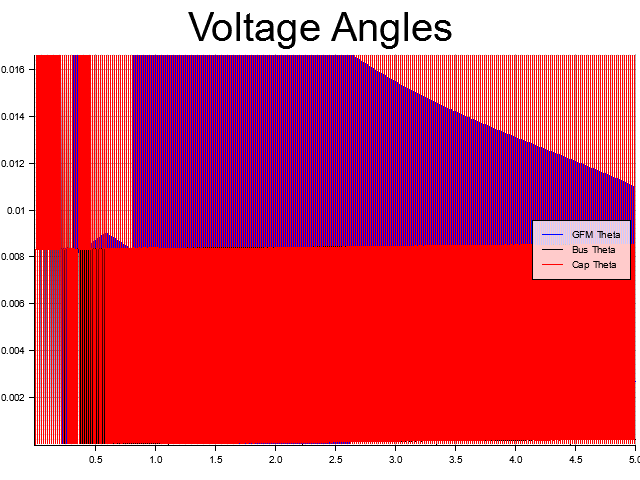
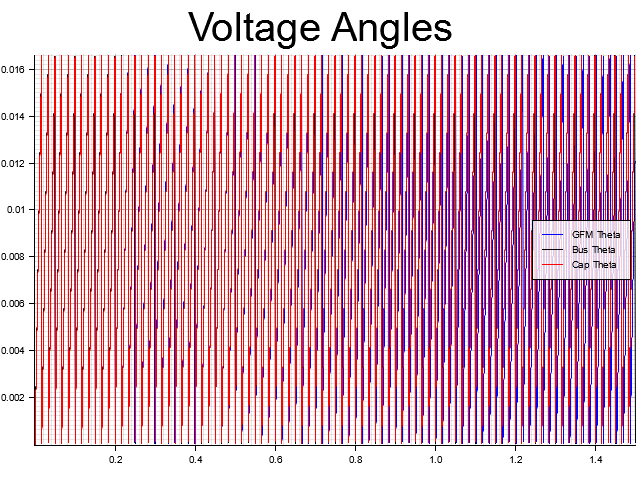
Update droop rl sim for gfm object & presync

diff --git a/src/bin/droop_rl_sim.rs b/src/bin/droop_rl_sim.rs
@@ -8,46 +8,58 @@ use unifi_gfm::refs::*;
 use unifi_gfm::sims::*;
 use unifi_gfm::constants::*;
 
-const VOLTAGE_FILE_NAME: &'static str = "images/droop_sim_voltage.png";
-const THETA_FILE_NAME: &'static str = "images/droop_sim_thetas.png";
-const POWER_OUT_FILE_NAME: &'static str = "images/droop_sim_powers.png";
-const CURRENT_OUT_FILE_NAME: &'static str = "images/droop_sim_currents.png";
-const DELTA_OUT_FILE_NAME: &'static str = "images/droop_sim_deltas.png";
-
+const VOLTAGE_FILE_NAME: &'static str = "images/droop_rl_sim_voltage.png";
+const THETA_FILE_NAME: &'static str = "images/droop_rl_sim_thetas.png";
+const POWER_OUT_FILE_NAME: &'static str = "images/droop_rl_sim_powers.png";
+const CURRENT_OUT_FILE_NAME: &'static str = "images/droop_rl_sim_currents.png";
+const DELTA_OUT_FILE_NAME: &'static str = "images/droop_rl_sim_deltas.png";
 fn main() -> Result<(), Box<dyn std::error::Error>> {
-    env::set_var("RUST_BACKTRACE", "1");  // Enable backtrace for identifying overflow errors 
-    /* 
+    /*
     DEFINE SYSTEM PARAMETERS & CONSTRUCT OBJECTS
     */
     let v_nom: f32 = 80.;
     let f_nom: f32 = 60.;
     let w_nom: f32 = f_nom * 2.*PI;
     let s_rated: f32 = 1000.;
-    let z_base = 3. * v_nom * v_nom / s_rated;
-    let dt: f32 = 1.0e-4_f32;
-    let mp: f32 = 0.0026; // / w_nom;  // Does this coefficient need to be per-unitized?
-    let mq: f32 = 0.005; // / v_nom;   // Does this coefficient need to be per-unitized?
-    let w_c: f32 = 30.*2.*PI;  // Does this filter frequency need to be per-unitized?
-    let mut inv = build_droop_controller(v_nom, w_nom, mp, mq, w_c);
-    inv.x[(1)] = dt * 0.53;  // Initialize inverter angle leading the grid angle by ~half a cycle to start closer to the digital equalibria
-    inv.x[(0)] = 0.999965;  // Initialize inverter voltage slightly lower than nominal to start closer to the digital equalibria
+    let fs: f32 = 10e3_f32; // Hz
+    let dt: f32 = 1. / fs;  // s
+    let mp: f32 = 0.0026; // / w_nom;  // TODO: Does this coefficient need to be per-unitized? Current values seems to make the response sluggish
+    let mq: f32 = 0.005; // / v_nom;   // TODO: Does this coefficient need to be per-unitized?
+    let w_c: f32 = 30.*2.*PI;  // TODO: Does this filter frequency need to be per-unitized?
+    let gamma: f32 = 35.;  // TODO: Determine what value should be used for gamma. Too high causes instability, but too low causes sluggish presync
 
-    let rf = 0.8;
-    let lf = 1.5e-3;
-    let mut line: RlBranch<f32> = build_rl_branch(f_nom, rf / z_base, lf / z_base);
+    let rf = 0.8;  // filter-side resistance
+    let lf = 1.5e-3;  // filter-side inductance
+
+    let z_base = 3. * v_nom * v_nom / s_rated;
+
+    let mut inv = build_droop_controller(v_nom, w_nom, mp, mq, w_c);
+    inv.x[(1)] = 0.005;  // Initialize inverter angle to be off from the grid to test presync
+    inv.x[(0)] = 1.1;  // Initialize inverter voltage to be off from v_nom to test presync
+    let mut gfm = build_gfm(&mut inv, gamma);  // Place the droop controller within a GFM interface object
+
+    let mut line: RlBranch<f32> = build_rl_branch(w_nom, rf / z_base, lf / z_base);
     let mut bus: AcVoltSrc<f32> = build_ac_volt_src(v_nom, w_nom);
 
     /*
     RUNNING DYNAMICAL SIMULATION
     */
+    // Simulation settings
     let t_end = 0.5;  // Simulate time in seconds
+    let t_step = t_end / 2.; // Active power reference step time
+    let t_switch = t_end / 5.;  // Grid-side switch time
     let n_steps: u32 = (t_end / dt).ceil() as u32;
     let cont_n_steps = 20;  // Number of steps taken for 'continuous' dynamics for each digital step
     let cont_dt = dt / (cont_n_steps as f32);
     let steps: Vec<u32> = (0..n_steps+1).collect();
+    // Initialize simulation variables
     let mut t: f32;
-    let mut p: f32 = 0.; let mut q: f32 = 0.;
-    let mut delta: f32; let mut i_alpha_sample: f32; let mut i_beta_sample: f32;
+    let mut p: f32 = 0.; let mut q: f32 = 0.; let mut delta: f32; 
+    let mut i_alpha_sample: f32; let mut i_beta_sample: f32;
+    let mut v_grid_sample: f32; let mut theta_grid_sample: f32;
+    let mut v_grid: f32; let mut theta_grid: f32; let mut v_inv: [f32; 2];
+    let mut v_to_alpha_beta: AlphaBeta<f32>;
+    // Simulation data vectors
     let mut v_values: Vec<(f32, f32)> = vec![(0., 0.); (n_steps+1) as usize];
     let mut theta_values: Vec<(f32, f32)> = vec![(0., 0.); (n_steps+1) as usize];
     let mut vg_values: Vec<(f32, f32)> = vec![(0., 0.); (n_steps+1) as usize];
@@ -57,23 +69,24 @@ fn main() -> Result<(), Box<dyn std::error::Error>> {
     let mut q_values: Vec<(f32, f32)> = vec![(0., 0.); ((n_steps+1)*cont_n_steps) as usize];
     let mut ia_values: Vec<(f32, f32)> = vec![(0., 0.); (n_steps+1) as usize];
     let mut ib_values: Vec<(f32, f32)> = vec![(0., 0.); (n_steps+1) as usize];
-    for step in steps {  // TODO: Debug this to see where the overflow occurs...
+    for step in steps {
         t = step as f32 * dt;
-        if t > (t_end / 2.) {
-            inv.set_p_ref(1.0);
+        if t > t_step {
+            gfm.set_p_ref(1.0);
         }
 
         // Collect voltage values
-        v_values[step as usize] = (t, inv.x[(0)]);
-        theta_values[step as usize] = (t, inv.x[(1)]);
+        v_inv = gfm.get_pu_voltage();
+        v_values[step as usize] = (t, v_inv[0]);
+        theta_values[step as usize] = (t, v_inv[1]);
         vg_values[step as usize] = (t, bus.x[(0)]);
         thetag_values[step as usize] = (t, bus.x[(1)]);
         ia_values[step as usize] = (t, line.x[(0)]);
         ib_values[step as usize] = (t, line.x[(1)]);
-        delta = inv.x[(1)] - bus.x[(1)];
+        delta = v_inv[1] - bus.x[(1)];
         if delta > (1. / f_nom) {
             delta = -(1. / f_nom) + delta;
-        } else if delta < -(1. / f_nom - 5.0e-4) {
+        } else if delta < -(1. / f_nom - 1.0e-4) {
             delta = (1. / f_nom) + delta;
         }
         delta_values[step as usize] = (t, delta);
@@ -81,22 +94,37 @@ fn main() -> Result<(), Box<dyn std::error::Error>> {
         // Sample the current
         i_alpha_sample = line.x[(0)];
         i_beta_sample = line.x[(1)];
+        // Sample the grid
+        v_grid_sample = bus.x[(0)];
+        theta_grid_sample = bus.x[(1)] * bus.w_nom;
+        let v_grid_sample_alpha_beta = AlphaBeta::from_polar(v_grid_sample, theta_grid_sample);
+        // Get alpha-beta gfm voltage
+        let v_inv_alpha_beta = AlphaBeta::from_polar(v_inv[0], v_inv[1] * gfm.ctrl.get_w_nom());
 
         // Step the system
         for n in 0..cont_n_steps {
             // Calculate power
-            let v = AlphaBeta::from_polar(inv.x[(0)], inv.x[(1)] * inv.w_nom);
             let i = AlphaBeta::from_ab_(line.x[(0)], line.x[(1)]);
-            (p, q) = calc_ab_power(&v, &i);
+            (p, q) = calc_ab_power(&v_inv_alpha_beta, &i);
             p_values[(cont_n_steps*step + n) as usize] = (t + (n as f32)*cont_dt, p);
             q_values[(cont_n_steps*step + n) as usize] = (t + (n as f32)*cont_dt, q);
+            
+            // Step the system
+            if t > t_switch {  // Get inductor grid-side voltage based on switch state
+                gfm.disable_presync();
+                v_grid = bus.x[(0)];  // TODO: rename this for clarity
+                theta_grid = bus.x[(1)] * bus.w_nom;
+                v_to_alpha_beta = AlphaBeta::from_polar(v_grid, theta_grid);
+            } else {
+                v_to_alpha_beta = AlphaBeta::from_polar(v_inv[0], v_inv[1] * gfm.ctrl.get_w_nom());
+            }
+            line.step(cont_dt, [v_inv_alpha_beta.alpha, v_inv_alpha_beta.beta, 
+                                   v_to_alpha_beta.alpha, v_to_alpha_beta.beta]);
             bus.step_(cont_dt);
-            line.step(cont_dt, [inv.x[(0)], inv.x[(1)] * inv.w_nom, 
-                                  bus.x[(0)], bus.x[(1)] * bus.w_nom]);
         }
 
         // Step the controller after a z^-1 delay
-        inv.step(dt, [i_alpha_sample, i_beta_sample]);
+        gfm.gfm_step(dt, [i_alpha_sample, i_beta_sample], [v_grid_sample_alpha_beta.alpha, v_grid_sample_alpha_beta.beta]);
     }
     println!("v: {}, theta: {}", inv.x[(0)], inv.x[(1)]);
     println!("ia: {}, ib: {}", line.x[(0)], line.x[(1)]);

diff --git a/src/bin/dvoc_lcl_dlvc_sim.rs b/src/bin/dvoc_lcl_dlvc_sim.rs
@@ -21,7 +21,7 @@ fn main() -> Result<(), Box<dyn std::error::Error>> {
     let f_nom: f32 = 60.;
     let w_nom: f32 = f_nom * 2.*PI;
     let s_rated: f32 = 1000.;
-    let fs: f32 = 100e3_f32; // Hz
+    let fs: f32 = 10e3_f32; // Hz
     let dt: f32 = 1. / fs;  // s
     let xi: f32 = 15.;
     let c: f32 = 0.2679;
@@ -39,8 +39,8 @@ fn main() -> Result<(), Box<dyn std::error::Error>> {
     //let rv = 0;  // virtual impedance
     //let zf = libm::sqrtf(rf*rf+(lf*w_nom)*(lf*w_nom));  // filter nominal inductance
 
-    let w_cur = 2.*PI*2000.;  // TODO: Determine why these frequencies needed to be cranked up this high for tracking. Guessing that per-unitization is the underlying factor
-    let w_vol = 2.*PI*500.;   // Originally was using 2.*PI*5000 and 2.*PI*800, but found 1e6 and 3e5 work well (Seperation is a bit low though <10x). Possibly multiply by w_nom, so remove 1/w_nom below?
+    let w_cur = 2.*PI*2750.;  // TODO: Determine why these frequencies needed to be cranked up this high for tracking. Guessing that per-unitization is the underlying factor
+    let w_vol = 2.*PI*800.;   // Originally was using 2.*PI*5000 and 2.*PI*800, but found 1e6 and 3e5 work well (Seperation is a bit low though <10x). Possibly multiply by w_nom, so remove 1/w_nom below?
     
     let kp_v = 1.*w_vol*cf * (z_base);
     let ki_v = 1.*kp_v*w_vol*w_vol/w_cur;
@@ -64,7 +64,7 @@ fn main() -> Result<(), Box<dyn std::error::Error>> {
     RUNNING DYNAMICAL SIMULATION
     */
     // Simulation settings
-    let t_end = 5.0;  // Simulate time in seconds
+    let t_end = 1.5;  // Simulate time in seconds
     let t_step = t_end; //t_end / 2.; // Active power reference step time
     let t_switch = 0.2;  // Grid-side switch time
     let n_steps: u32 = (t_end / dt).ceil() as u32;

diff --git a/src/bin/dvoc_rl_sim.rs b/src/bin/dvoc_rl_sim.rs
@@ -21,7 +21,8 @@ fn main() -> Result<(), Box<dyn std::error::Error>> {
     let f_nom: f32 = 60.;
     let w_nom: f32 = f_nom * 2.*PI;
     let s_rated: f32 = 1000.;
-    let dt: f32 = 1.0e-4_f32;
+    let fs: f32 = 10e3_f32; // Hz
+    let dt: f32 = 1. / fs;  // s
     let xi: f32 = 15.;
     let c: f32 = 0.2679;
     let gamma: f32 = 1.; 
